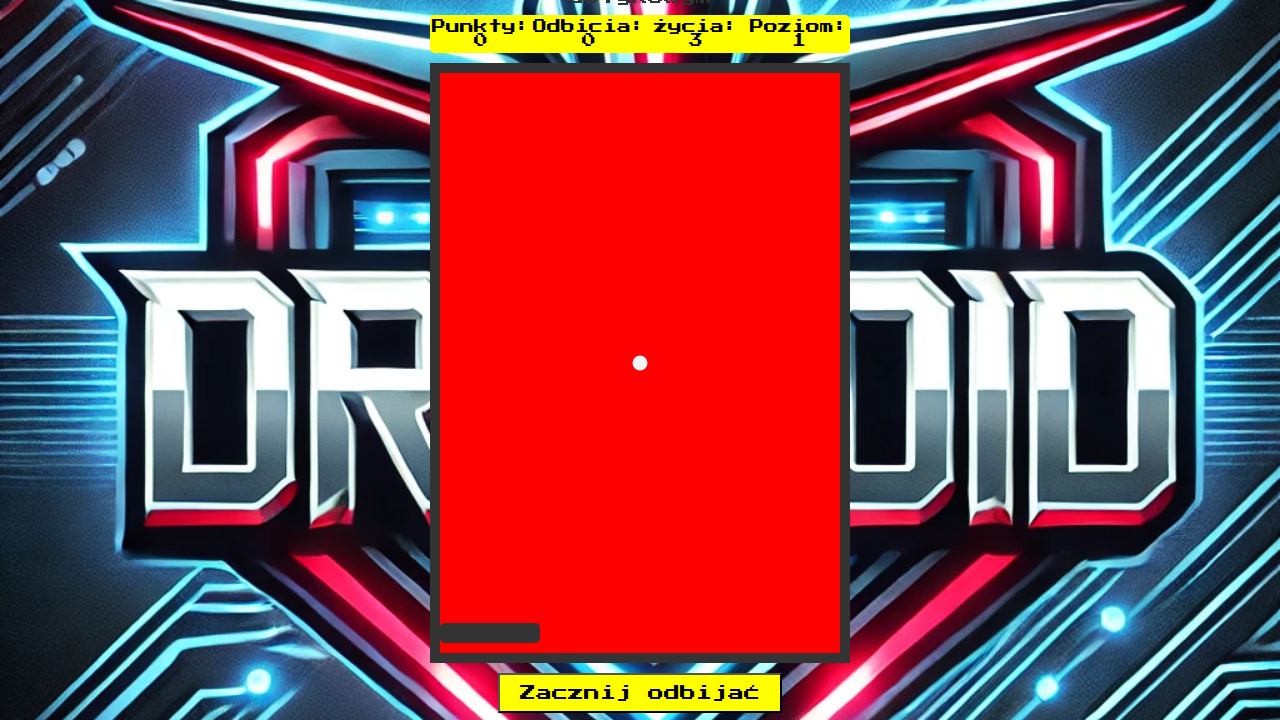
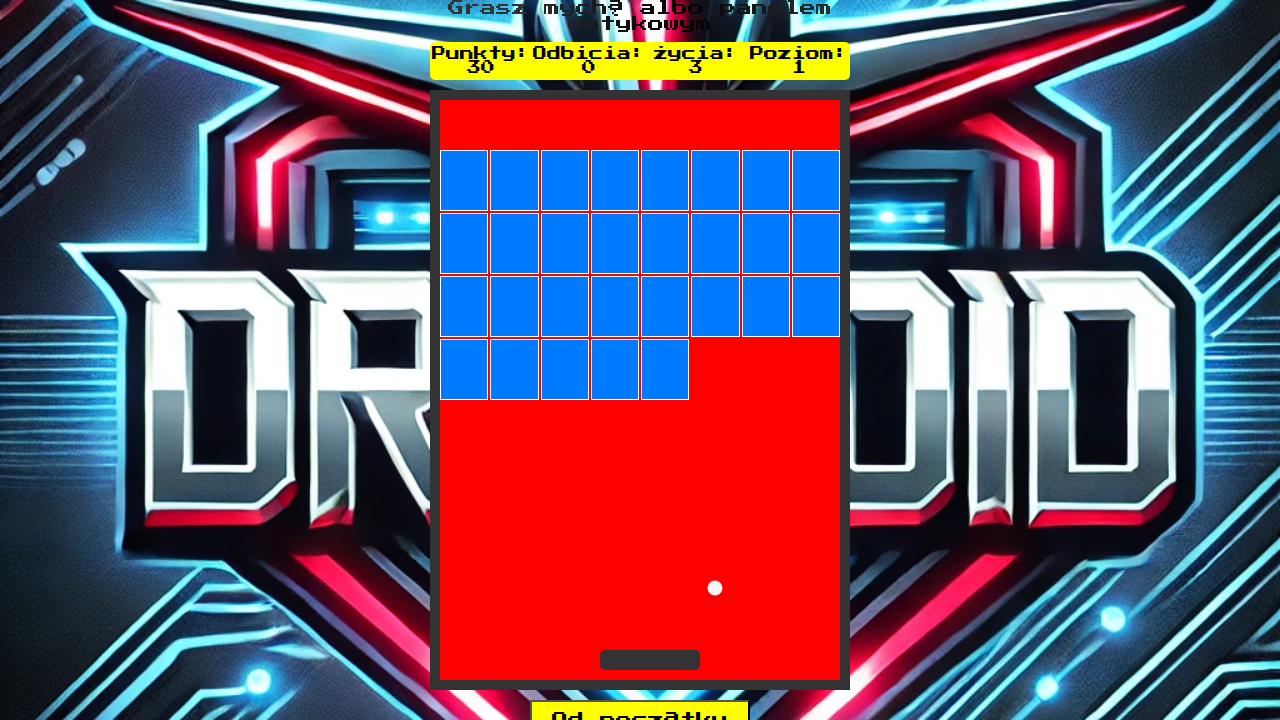
fix: Naprawia ruch paletki przy krawędziach i zmienia fizykę odbicia piłki
- Poprawiono logikę ruchu paletki, aby dochodziła do samych krawędzi ekranu gry.
- Zmieniono zachowanie piłki po uderzeniu w klocek, tak aby zawsze odbijała się w dół.

diff --git a/style.css b/style.css
@@ -24,7 +24,7 @@ body {
 #stats-bar {
     display: flex;
     justify-content: space-around;
-    width: 420px;
+    width: 400px;
     margin-bottom: 10px;
     font-size: 14px;
     text-align: center;
@@ -39,12 +39,11 @@ body {
 
 .game-area {
     position: relative;
-    width: 420px;
+    width: 400px;
     height: 600px;
     border: 10px solid #333;
     overflow: hidden;
     background-color: red;
-    box-sizing: border-box;
 }
 
 .game-area.game-active {
@@ -207,7 +206,7 @@ body {
 }
 
 .info-text {
-    width: 420px;
+    width: 400px;
     text-align: center;
     font-family: 'Press Start 2P', cursive;
     font-size: 16px;

diff --git a/script.js b/script.js
@@ -179,7 +179,8 @@ document.addEventListener('DOMContentLoaded', () => {
                         ballRect.right >= brickRect.left &&
                         ballRect.left <= brickRect.right
                     ) {
-                        ballSpeed.y = -ballSpeed.y;
+                        // Zmiana kierunku piłki tak, aby zawsze leciała w dół po uderzeniu w klocek
+                        ballSpeed.y = Math.abs(ballSpeed.y);
                         handleBrickRemoval(brick);
                         score += 10;
                         updateStats();

diff --git a/verify_paddle_movement.py b/verify_paddle_movement.py
@@ -1,0 +1,66 @@
+
+import asyncio
+from playwright.async_api import async_playwright
+import http.server
+import socketserver
+import threading
+import os
+
+PORT = 8000
+SCREENSHOT_PATH = "verification.png"
+
+class Handler(http.server.SimpleHTTPRequestHandler):
+    def __init__(self, *args, **kwargs):
+        super().__init__(*args, directory=".", **kwargs)
+
+def run_server():
+    with socketserver.TCPServer(("", PORT), Handler) as httpd:
+        print(f"Serving at port {PORT}")
+        httpd.serve_forever()
+
+async def main():
+    server_thread = threading.Thread(target=run_server)
+    server_thread.daemon = True
+    server_thread.start()
+
+    async with async_playwright() as p:
+        browser = await p.chromium.launch()
+        page = await browser.new_page()
+
+        try:
+            await page.goto(f"http://localhost:{PORT}/index.html")
+
+            # Poczekaj, aż gra będzie gotowa
+            await page.wait_for_selector('.game-area')
+
+            # Kliknij przycisk start, aby aktywować grę
+            await page.click('#startButton')
+            await page.wait_for_timeout(500) # Daj grze chwilę na aktywację
+
+            # Uzyskaj wymiary obszaru gry
+            game_area_box = await page.locator('.game-area').bounding_box()
+
+            # Przesuń mysz na skrajną lewą pozycję
+            await page.mouse.move(game_area_box['x'] + 1, game_area_box['y'] + game_area_box['height'] / 2)
+            await page.wait_for_timeout(500) # Poczekaj na ruch paletki
+
+            # Zrób zrzut ekranu
+            await page.screenshot(path=SCREENSHOT_PATH)
+            print(f"Screenshot saved to {SCREENSHOT_PATH}")
+
+            # Przesuń mysz na skrajną prawą pozycję
+            await page.mouse.move(game_area_box['x'] + game_area_box['width'] - 1, game_area_box['y'] + game_area_box['height'] / 2)
+            await page.wait_for_timeout(500) # Poczekaj na ruch paletki
+
+            # Zaktualizuj zrzut ekranu
+            await page.screenshot(path=SCREENSHOT_PATH)
+            print(f"Screenshot updated for right side at {SCREENSHOT_PATH}")
+
+        except Exception as e:
+            print(f"An error occurred: {e}")
+        finally:
+            await browser.close()
+            # Serwer zostanie zatrzymany, gdy główny wątek się zakończy
+
+if __name__ == "__main__":
+    asyncio.run(main())

diff --git a/jules-scratch/verification/verify_ball_bounce.py b/jules-scratch/verification/verify_ball_bounce.py
@@ -1,0 +1,36 @@
+
+import asyncio
+from playwright.async_api import async_playwright
+import os
+
+async def main():
+    async with async_playwright() as p:
+        browser = await p.chromium.launch()
+        page = await browser.new_page()
+
+        # Użyj pełnej ścieżki do pliku index.html
+        file_path = "file://" + os.path.abspath("index.html")
+        await page.goto(file_path)
+
+        # Poczekaj, aż gra się załaduje
+        await page.wait_for_selector("#startButton")
+
+        # Kliknij przycisk start
+        await page.click("#startButton")
+
+        # Poczekaj na aktywację obszaru gry
+        await page.wait_for_selector(".game-area.game-active")
+
+        # Kliknij, aby wystrzelić piłkę
+        await page.click(".game-area")
+
+        # Poczekaj chwilę, aby piłka uderzyła w klocek
+        await page.wait_for_timeout(1000) # 1 sekunda
+
+        # Zrób zrzut ekranu
+        await page.screenshot(path="jules-scratch/verification/verification.png")
+
+        await browser.close()
+
+if __name__ == "__main__":
+    asyncio.run(main())

diff --git a/verify_ball_bounce.py b/verify_ball_bounce.py
@@ -1,0 +1,25 @@
+
+import asyncio
+from playwright.async_api import async_playwright
+
+async def main():
+    async with async_playwright() as p:
+        browser = await p.chromium.launch()
+        page = await browser.new_page()
+
+        # Go to the local game file and wait for it to load
+        await page.goto('file://' + __file__.replace('verify_ball_bounce.py', 'index.html'), wait_until='domcontentloaded')
+
+        # Click the game area to start the game
+        await page.click('.game-area', position={'x': 200, 'y': 350})
+
+        # Wait for a moment to let the ball travel and hit a brick
+        await page.wait_for_timeout(1000)  # 1 second should be enough for the ball to hit the first row
+
+        # Take a screenshot
+        await page.screenshot(path='screenshot_ball_bounce.png')
+
+        await browser.close()
+
+if __name__ == '__main__':
+    asyncio.run(main())
